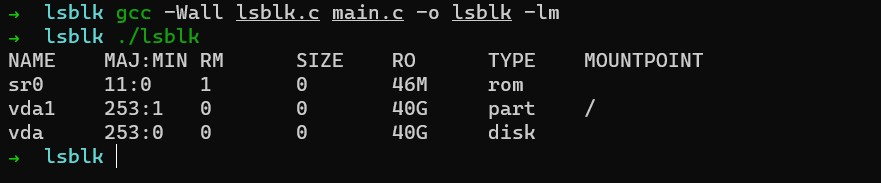
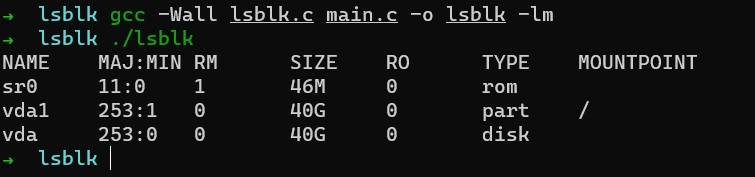
Site updated: 2022-02-22 01:34:53

diff --git a/2022/02/19/lsblk命令实现/index.html b/2022/02/19/lsblk命令实现/index.html
@@ -110,7 +110,7 @@
 <meta property="og:locale">
 <meta property="og:image" content="http://example.com/2022/02/19/lsblk%E5%91%BD%E4%BB%A4%E5%AE%9E%E7%8E%B0/lsblk.jpg">
 <meta property="article:published_time" content="2022-02-19T08:36:03.000Z">
-<meta property="article:modified_time" content="2022-02-21T16:27:54.000Z">
+<meta property="article:modified_time" content="2022-02-21T17:34:34.000Z">
 <meta property="article:author" content="Kawaii Zack">
 <meta property="article:tag" content="ln命令">
 <meta name="twitter:card" content="summary">
@@ -416,7 +416,7 @@
 
 <figure class="highlight c"><table><tr><td class="gutter"><pre><span class="line">1</span><br><span class="line">2</span><br><span class="line">3</span><br><span class="line">4</span><br><span class="line">5</span><br><span class="line">6</span><br><span class="line">7</span><br><span class="line">8</span><br><span class="line">9</span><br><span class="line">10</span><br><span class="line">11</span><br><span class="line">12</span><br><span class="line">13</span><br><span class="line">14</span><br><span class="line">15</span><br><span class="line">16</span><br><span class="line">17</span><br><span class="line">18</span><br><span class="line">19</span><br><span class="line">20</span><br><span class="line">21</span><br><span class="line">22</span><br><span class="line">23</span><br><span class="line">24</span><br><span class="line">25</span><br><span class="line">26</span><br><span class="line">27</span><br><span class="line">28</span><br><span class="line">29</span><br><span class="line">30</span><br><span class="line">31</span><br><span class="line">32</span><br><span class="line">33</span><br><span class="line">34</span><br><span class="line">35</span><br><span class="line">36</span><br><span class="line">37</span><br><span class="line">38</span><br><span class="line">39</span><br><span class="line">40</span><br><span class="line">41</span><br><span class="line">42</span><br><span class="line">43</span><br><span class="line">44</span><br><span class="line">45</span><br><span class="line">46</span><br><span class="line">47</span><br><span class="line">48</span><br><span class="line">49</span><br><span class="line">50</span><br><span class="line">51</span><br><span class="line">52</span><br><span class="line">53</span><br><span class="line">54</span><br><span class="line">55</span><br><span class="line">56</span><br><span class="line">57</span><br><span class="line">58</span><br><span class="line">59</span><br><span class="line">60</span><br><span class="line">61</span><br><span class="line">62</span><br><span class="line">63</span><br><span class="line">64</span><br><span class="line">65</span><br><span class="line">66</span><br><span class="line">67</span><br><span class="line">68</span><br><span class="line">69</span><br><span class="line">70</span><br><span class="line">71</span><br><span class="line">72</span><br><span class="line">73</span><br><span class="line">74</span><br><span class="line">75</span><br><span class="line">76</span><br><span class="line">77</span><br><span class="line">78</span><br><span class="line">79</span><br><span class="line">80</span><br><span class="line">81</span><br><span class="line">82</span><br><span class="line">83</span><br><span class="line">84</span><br><span class="line">85</span><br><span class="line">86</span><br><span class="line">87</span><br><span class="line">88</span><br><span class="line">89</span><br><span class="line">90</span><br><span class="line">91</span><br><span class="line">92</span><br><span class="line">93</span><br><span class="line">94</span><br><span class="line">95</span><br><span class="line">96</span><br><span class="line">97</span><br><span class="line">98</span><br><span class="line">99</span><br><span class="line">100</span><br><span class="line">101</span><br><span class="line">102</span><br><span class="line">103</span><br><span class="line">104</span><br><span class="line">105</span><br><span class="line">106</span><br><span class="line">107</span><br><span class="line">108</span><br><span class="line">109</span><br><span class="line">110</span><br><span class="line">111</span><br><span class="line">112</span><br><span class="line">113</span><br><span class="line">114</span><br><span class="line">115</span><br><span class="line">116</span><br><span class="line">117</span><br><span class="line">118</span><br><span class="line">119</span><br><span class="line">120</span><br><span class="line">121</span><br><span class="line">122</span><br><span class="line">123</span><br><span class="line">124</span><br><span class="line">125</span><br><span class="line">126</span><br><span class="line">127</span><br><span class="line">128</span><br><span class="line">129</span><br><span class="line">130</span><br><span class="line">131</span><br><span class="line">132</span><br><span class="line">133</span><br><span class="line">134</span><br><span class="line">135</span><br><span class="line">136</span><br><span class="line">137</span><br><span class="line">138</span><br><span class="line">139</span><br><span class="line">140</span><br><span class="line">141</span><br><span class="line">142</span><br><span class="line">143</span><br><span class="line">144</span><br><span class="line">145</span><br><span class="line">146</span><br><span class="line">147</span><br><span class="line">148</span><br><span class="line">149</span><br><span class="line">150</span><br><span class="line">151</span><br><span class="line">152</span><br><span class="line">153</span><br><span class="line">154</span><br><span class="line">155</span><br><span class="line">156</span><br><span class="line">157</span><br><span class="line">158</span><br><span class="line">159</span><br><span class="line">160</span><br><span class="line">161</span><br><span class="line">162</span><br><span class="line">163</span><br></pre></td><td class="code"><pre><span class="line"><span class="comment">//lsblk.c</span></span><br><span class="line"><span class="meta">#<span class="meta-keyword">include</span> <span class="meta-string">&quot;lsblk.h&quot;</span></span></span><br><span class="line"></span><br><span class="line"><span class="function"><span class="keyword">int</span></span></span><br><span class="line"><span class="function"><span class="title">get_block_base_info</span><span class="params">(struct block blks[])</span></span>&#123;</span><br><span class="line">    DIR *dir = <span class="literal">NULL</span>;</span><br><span class="line">    <span class="class"><span class="keyword">struct</span> <span class="title">dirent</span> *<span class="title">entry</span> =</span> <span class="literal">NULL</span>;</span><br><span class="line">    <span class="class"><span class="keyword">struct</span> <span class="title">stat</span> <span class="title">state</span>;</span></span><br><span class="line">    <span class="keyword">char</span>* path = <span class="string">&quot;/dev/&quot;</span>;</span><br><span class="line">    <span class="keyword">int</span> i = <span class="number">0</span>;</span><br><span class="line"></span><br><span class="line">    <span class="keyword">if</span> ((dir = opendir(path)) == <span class="literal">NULL</span>)&#123;</span><br><span class="line">        <span class="built_in">fprintf</span>(<span class="built_in">stderr</span>, <span class="string">&quot;open /dev/ dir error&quot;</span>);</span><br><span class="line">        perror(<span class="string">&quot;/dev/&quot;</span>);</span><br><span class="line">        <span class="keyword">return</span> <span class="number">-1</span>;</span><br><span class="line">    &#125;</span><br><span class="line"></span><br><span class="line">    <span class="keyword">while</span> ((entry = readdir(dir)) != <span class="literal">NULL</span>) &#123;</span><br><span class="line">        <span class="keyword">char</span> dev[BUFFER_SIZE];</span><br><span class="line"></span><br><span class="line">        <span class="keyword">int</span> ret = <span class="built_in">snprintf</span>(dev, <span class="keyword">sizeof</span>(dev), <span class="string">&quot;%s/%s&quot;</span>, path, entry-&gt;d_name);</span><br><span class="line">        <span class="keyword">if</span> (ret == <span class="number">-1</span>) &#123;</span><br><span class="line">            <span class="built_in">fprintf</span>(<span class="built_in">stderr</span>, <span class="string">&quot;join new path error\n&quot;</span>);</span><br><span class="line">            <span class="keyword">return</span> <span class="number">-1</span>;</span><br><span class="line">        &#125;</span><br><span class="line"></span><br><span class="line">        <span class="keyword">if</span> (entry-&gt;d_type == DT_BLK) &#123;</span><br><span class="line">            <span class="keyword">if</span> ((ret = lstat(dev, &amp;state)) == <span class="number">-1</span>) &#123;</span><br><span class="line">               <span class="built_in">fprintf</span>(<span class="built_in">stderr</span>,<span class="string">&quot;get file info error\n&quot;</span>);</span><br><span class="line">               perror(dev);</span><br><span class="line">               <span class="keyword">return</span> <span class="number">-1</span>;</span><br><span class="line">            &#125;</span><br><span class="line"></span><br><span class="line">            <span class="class"><span class="keyword">struct</span> <span class="title">block</span> <span class="title">b</span> =</span> &#123;</span><br><span class="line">                name: entry-&gt;d_name,</span><br><span class="line">                maj: (<span class="keyword">int</span>)MAJOR(state.st_rdev),</span><br><span class="line">                min: (<span class="keyword">int</span>)MINOR(state.st_rdev)</span><br><span class="line">            &#125;;</span><br><span class="line">            blks[i] = b;</span><br><span class="line">            i++;</span><br><span class="line">        &#125;</span><br><span class="line">    &#125;</span><br><span class="line">    closedir(dir);</span><br><span class="line"></span><br><span class="line">    <span class="keyword">return</span> i;</span><br><span class="line">&#125;</span><br><span class="line"></span><br><span class="line"><span class="function"><span class="keyword">char</span>* <span class="title">get_context</span><span class="params">(<span class="keyword">char</span>* cmd)</span></span>&#123;</span><br><span class="line">    FILE* file;</span><br><span class="line">    <span class="keyword">char</span>* buf;</span><br><span class="line">    buf = (<span class="keyword">char</span> *)<span class="built_in">malloc</span>(BUFFER_SIZE * <span class="keyword">sizeof</span>(<span class="keyword">char</span>));</span><br><span class="line">    <span class="comment">//printf(&quot;len: %ld\n&quot;, sizeof(buf));</span></span><br><span class="line"></span><br><span class="line">    file = popen(cmd, <span class="string">&quot;r&quot;</span>);</span><br><span class="line">    <span class="built_in">fscanf</span>(file, <span class="string">&quot;%s&quot;</span>, buf);</span><br><span class="line">    pclose(file);</span><br><span class="line"></span><br><span class="line">    <span class="keyword">return</span> buf;</span><br><span class="line">&#125;</span><br><span class="line"></span><br><span class="line"><span class="function"><span class="keyword">int</span></span></span><br><span class="line"><span class="function"><span class="title">get_bolck_removable</span><span class="params">(<span class="keyword">char</span>* device)</span></span>&#123;</span><br><span class="line">    <span class="keyword">char</span> cmd[BUFFER_SIZE];</span><br><span class="line">    <span class="keyword">char</span> file_path[BUFFER_SIZE];</span><br><span class="line">    <span class="keyword">char</span>* res;</span><br><span class="line"></span><br><span class="line">    <span class="built_in">sprintf</span>((<span class="keyword">char</span>*)file_path, <span class="string">&quot;/sys/dev/block/%s/removable&quot;</span>, device);</span><br><span class="line">    <span class="keyword">int</span> ret = <span class="built_in">snprintf</span>(cmd, <span class="keyword">sizeof</span>(cmd), <span class="string">&quot;cat /sys/dev/block/%s/removable&quot;</span>, device);</span><br><span class="line">    <span class="keyword">if</span> (access(file_path, F_OK)) &#123;</span><br><span class="line">        <span class="keyword">return</span> <span class="number">0</span>;</span><br><span class="line">    &#125;</span><br><span class="line">    <span class="keyword">if</span> (ret == <span class="number">-1</span>) &#123;</span><br><span class="line">        <span class="built_in">fprintf</span>(<span class="built_in">stderr</span>, <span class="string">&quot;join new path error\n&quot;</span>);</span><br><span class="line">        <span class="keyword">return</span> ret;</span><br><span class="line">    &#125;</span><br><span class="line"></span><br><span class="line">    res = get_context(cmd);</span><br><span class="line">    <span class="keyword">return</span> res[<span class="number">0</span>] - <span class="string">&#x27;0&#x27;</span>;</span><br><span class="line">&#125;</span><br><span class="line"></span><br><span class="line"><span class="function"><span class="keyword">void</span></span></span><br><span class="line"><span class="function"><span class="title">get_block_format_size</span><span class="params">(<span class="keyword">char</span>* device,<span class="keyword">char</span>* ret)</span></span>&#123;</span><br><span class="line">    <span class="keyword">int</span> fd;</span><br><span class="line">    <span class="keyword">off_t</span> off;</span><br><span class="line">    <span class="keyword">char</span> fmt_size[BUFFER_SIZE];</span><br><span class="line"></span><br><span class="line">    fd=open(device, O_RDONLY);</span><br><span class="line"></span><br><span class="line">    <span class="keyword">if</span> (fd == <span class="number">-1</span>)&#123;</span><br><span class="line">        <span class="built_in">fprintf</span>(<span class="built_in">stderr</span>, <span class="string">&quot;open file error\n&quot;</span>);</span><br><span class="line">        ret = <span class="string">&quot;error&quot;</span>;</span><br><span class="line">        <span class="keyword">return</span> ;</span><br><span class="line">    &#125;</span><br><span class="line"></span><br><span class="line">    off = lseek(fd, <span class="number">0</span>, SEEK_END);</span><br><span class="line"></span><br><span class="line">    <span class="keyword">if</span> (off &lt; <span class="number">1024</span>*<span class="number">1024</span>*<span class="number">1024</span>)&#123;</span><br><span class="line">       <span class="built_in">sprintf</span>(fmt_size, <span class="string">&quot;%dM&quot;</span>, (<span class="keyword">int</span>)(off*<span class="number">1.0</span>/<span class="number">1024</span>/<span class="number">1024</span>+<span class="number">0.5</span>));</span><br><span class="line">    &#125;<span class="keyword">else</span> &#123;</span><br><span class="line">       <span class="built_in">sprintf</span>(fmt_size, <span class="string">&quot;%dG&quot;</span>, (<span class="keyword">int</span>)(off*<span class="number">1.0</span>/<span class="number">1024</span>/<span class="number">1024</span>/<span class="number">1024</span>+<span class="number">0.5</span>));</span><br><span class="line">    &#125;</span><br><span class="line">    <span class="built_in">strcpy</span>(ret, fmt_size);</span><br><span class="line"></span><br><span class="line">    <span class="comment">//printf(&quot;size:%s\n&quot;, ret);</span></span><br><span class="line">    <span class="keyword">return</span> ;</span><br><span class="line">&#125;</span><br><span class="line"></span><br><span class="line"><span class="function"><span class="keyword">int</span></span></span><br><span class="line"><span class="function"><span class="title">get_bolck_ro_value</span><span class="params">(<span class="keyword">char</span>* device)</span></span>&#123;</span><br><span class="line">    <span class="keyword">char</span> cmd[BUFFER_SIZE];</span><br><span class="line">    <span class="keyword">char</span>* res;</span><br><span class="line"></span><br><span class="line">    <span class="keyword">int</span> ret = <span class="built_in">snprintf</span>(cmd, <span class="keyword">sizeof</span>(cmd), <span class="string">&quot;cat /sys/dev/block/%s/ro&quot;</span>, device);</span><br><span class="line">    <span class="keyword">if</span> (ret == <span class="number">-1</span>) &#123;</span><br><span class="line">        <span class="built_in">fprintf</span>(<span class="built_in">stderr</span>, <span class="string">&quot;join new path error\n&quot;</span>);</span><br><span class="line">        <span class="keyword">return</span> ret;</span><br><span class="line">    &#125;</span><br><span class="line"></span><br><span class="line">    res = get_context(cmd);</span><br><span class="line"></span><br><span class="line">    <span class="keyword">return</span> res[<span class="number">0</span>] - <span class="string">&#x27;0&#x27;</span>;</span><br><span class="line">&#125;</span><br><span class="line"></span><br><span class="line"><span class="function"><span class="keyword">char</span>*</span></span><br><span class="line"><span class="function"><span class="title">get_block_type</span><span class="params">(<span class="keyword">int</span> rm, <span class="keyword">char</span>* device)</span></span>&#123;</span><br><span class="line">    <span class="keyword">char</span> cmd[BUFFER_SIZE];</span><br><span class="line">    <span class="keyword">char</span>* res;</span><br><span class="line"></span><br><span class="line">    <span class="keyword">int</span> ret = <span class="built_in">snprintf</span>(cmd, <span class="keyword">sizeof</span>(cmd), <span class="string">&quot;cat /sys/dev/block/%s/uevent | grep DEVTYPE | awk -F&#x27;=&#x27; &#x27;&#123;print$2&#125;&#x27; | awk &#x27;&#123;print$1&#125;&#x27;&quot;</span>, device);</span><br><span class="line">    <span class="keyword">if</span> (ret == <span class="number">-1</span>) &#123;</span><br><span class="line">        <span class="built_in">fprintf</span>(<span class="built_in">stderr</span>, <span class="string">&quot;join new path error\n&quot;</span>);</span><br><span class="line">        <span class="keyword">return</span> <span class="string">&quot;error&quot;</span>;</span><br><span class="line">    &#125;</span><br><span class="line"></span><br><span class="line">    res = get_context(cmd);</span><br><span class="line">    <span class="keyword">if</span> (rm == <span class="number">1</span>)&#123;</span><br><span class="line">        res = <span class="string">&quot;rom&quot;</span>;</span><br><span class="line">    &#125;</span><br><span class="line"></span><br><span class="line">    <span class="keyword">if</span> (<span class="built_in">strcmp</span>(res, <span class="string">&quot;partition&quot;</span>) == <span class="number">0</span>)&#123;</span><br><span class="line">        res = <span class="string">&quot;part&quot;</span>;</span><br><span class="line">    &#125;</span><br><span class="line"></span><br><span class="line">    <span class="comment">//printf(&quot;type:%s|&quot;, res);</span></span><br><span class="line">    <span class="keyword">return</span> res;</span><br><span class="line">&#125;</span><br><span class="line"></span><br><span class="line"><span class="function"><span class="keyword">char</span>*</span></span><br><span class="line"><span class="function"><span class="title">get_block_mount_point</span><span class="params">(<span class="keyword">char</span>* dev)</span></span>&#123;</span><br><span class="line">    <span class="keyword">char</span> cmd[BUFFER_SIZE];</span><br><span class="line">    <span class="keyword">char</span>* res;</span><br><span class="line"></span><br><span class="line">    <span class="keyword">int</span> ret = <span class="built_in">snprintf</span>(cmd, <span class="keyword">sizeof</span>(cmd), <span class="string">&quot;cat /etc/mtab | grep &#x27;%s&#x27; | awk &#x27;&#123;print$2&#125;&#x27;&quot;</span>, dev);</span><br><span class="line">    <span class="keyword">if</span> (ret == <span class="number">-1</span>) &#123;</span><br><span class="line">        <span class="built_in">fprintf</span>(<span class="built_in">stderr</span>, <span class="string">&quot;join new path error\n&quot;</span>);</span><br><span class="line">        <span class="keyword">return</span> <span class="string">&quot;error&quot;</span>;</span><br><span class="line">    &#125;</span><br><span class="line"></span><br><span class="line">    res = get_context(cmd);</span><br><span class="line"></span><br><span class="line">    <span class="comment">//printf(&quot;point:%s\n&quot;, res);</span></span><br><span class="line">    <span class="keyword">return</span> res;</span><br><span class="line">&#125;</span><br></pre></td></tr></table></figure>
 
-<figure class="highlight c"><table><tr><td class="gutter"><pre><span class="line">1</span><br><span class="line">2</span><br><span class="line">3</span><br><span class="line">4</span><br><span class="line">5</span><br><span class="line">6</span><br><span class="line">7</span><br><span class="line">8</span><br><span class="line">9</span><br><span class="line">10</span><br><span class="line">11</span><br><span class="line">12</span><br><span class="line">13</span><br><span class="line">14</span><br><span class="line">15</span><br><span class="line">16</span><br><span class="line">17</span><br><span class="line">18</span><br><span class="line">19</span><br><span class="line">20</span><br><span class="line">21</span><br><span class="line">22</span><br><span class="line">23</span><br><span class="line">24</span><br><span class="line">25</span><br><span class="line">26</span><br><span class="line">27</span><br><span class="line">28</span><br><span class="line">29</span><br><span class="line">30</span><br><span class="line">31</span><br><span class="line">32</span><br><span class="line">33</span><br></pre></td><td class="code"><pre><span class="line"><span class="comment">//main.</span></span><br><span class="line"><span class="meta">#<span class="meta-keyword">include</span> <span class="meta-string">&lt;stdio.h&gt;</span></span></span><br><span class="line"><span class="meta">#<span class="meta-keyword">include</span> <span class="meta-string">&quot;lsblk.h&quot;</span></span></span><br><span class="line"></span><br><span class="line"><span class="function"><span class="keyword">int</span></span></span><br><span class="line"><span class="function"><span class="title">main</span><span class="params">(<span class="keyword">int</span> argc, <span class="keyword">char</span>* argv[])</span></span>&#123;</span><br><span class="line">    <span class="class"><span class="keyword">struct</span> <span class="title">block</span> <span class="title">blks</span>[10];</span></span><br><span class="line">    <span class="keyword">int</span> n,i;</span><br><span class="line">    <span class="keyword">char</span> maj_min[BUFFER_SIZE];</span><br><span class="line">    <span class="keyword">char</span> dev[BUFFER_SIZE];</span><br><span class="line"></span><br><span class="line">    n = get_block_base_info(blks);</span><br><span class="line"></span><br><span class="line">    <span class="built_in">printf</span>(<span class="string">&quot;NAME\tMAJ:MIN\tRM\tSIZE\tRO\tTYPE\tMOUNTPOINT\n&quot;</span>);</span><br><span class="line"></span><br><span class="line">    <span class="keyword">for</span>(i = <span class="number">0</span>; i &lt; n; i++)&#123;</span><br><span class="line">        <span class="keyword">char</span>* size = <span class="built_in">malloc</span>(BUFFER_SIZE);</span><br><span class="line">        <span class="built_in">sprintf</span>((<span class="keyword">char</span>*)maj_min, <span class="string">&quot;%d:%d&quot;</span>, blks[i].maj, blks[i].min);</span><br><span class="line">        <span class="built_in">sprintf</span>((<span class="keyword">char</span>*)dev, <span class="string">&quot;/dev/%s&quot;</span>, blks[i].name);</span><br><span class="line">        blks[i].ro = get_bolck_ro_value(maj_min);</span><br><span class="line">        blks[i].rm = get_bolck_removable(maj_min);</span><br><span class="line">        get_block_format_size(dev, size);</span><br><span class="line">        blks[i].fmt_size = size;</span><br><span class="line">        blks[i].type = get_block_type(blks[i].rm, maj_min);</span><br><span class="line">        blks[i].mount_point = <span class="string">&quot;&quot;</span>;</span><br><span class="line">        <span class="keyword">if</span> (<span class="built_in">strcmp</span>(blks[i].type, <span class="string">&quot;part&quot;</span>) == <span class="number">0</span>)&#123;</span><br><span class="line">            blks[i].mount_point = get_block_mount_point(blks[i].name);</span><br><span class="line">        &#125;</span><br><span class="line">        <span class="built_in">printf</span>(<span class="string">&quot;%s\t%s\t%d\t%d\t%s\t%s\t%s\n&quot;</span>, blks[i].name, maj_min, blks[i].rm, blks[i].ro, blks[i].fmt_size, blks[i].type, blks[i].mount_point);</span><br><span class="line">    &#125;</span><br><span class="line"></span><br><span class="line">    <span class="keyword">return</span> <span class="number">0</span>;</span><br><span class="line">&#125;</span><br></pre></td></tr></table></figure>
+<figure class="highlight c"><table><tr><td class="gutter"><pre><span class="line">1</span><br><span class="line">2</span><br><span class="line">3</span><br><span class="line">4</span><br><span class="line">5</span><br><span class="line">6</span><br><span class="line">7</span><br><span class="line">8</span><br><span class="line">9</span><br><span class="line">10</span><br><span class="line">11</span><br><span class="line">12</span><br><span class="line">13</span><br><span class="line">14</span><br><span class="line">15</span><br><span class="line">16</span><br><span class="line">17</span><br><span class="line">18</span><br><span class="line">19</span><br><span class="line">20</span><br><span class="line">21</span><br><span class="line">22</span><br><span class="line">23</span><br><span class="line">24</span><br><span class="line">25</span><br><span class="line">26</span><br><span class="line">27</span><br><span class="line">28</span><br><span class="line">29</span><br><span class="line">30</span><br><span class="line">31</span><br><span class="line">32</span><br><span class="line">33</span><br></pre></td><td class="code"><pre><span class="line"><span class="comment">//main.</span></span><br><span class="line"><span class="meta">#<span class="meta-keyword">include</span> <span class="meta-string">&lt;stdio.h&gt;</span></span></span><br><span class="line"><span class="meta">#<span class="meta-keyword">include</span> <span class="meta-string">&quot;lsblk.h&quot;</span></span></span><br><span class="line"></span><br><span class="line"><span class="function"><span class="keyword">int</span></span></span><br><span class="line"><span class="function"><span class="title">main</span><span class="params">(<span class="keyword">int</span> argc, <span class="keyword">char</span>* argv[])</span></span>&#123;</span><br><span class="line">    <span class="class"><span class="keyword">struct</span> <span class="title">block</span> <span class="title">blks</span>[10];</span></span><br><span class="line">    <span class="keyword">int</span> n,i;</span><br><span class="line">    <span class="keyword">char</span> maj_min[BUFFER_SIZE];</span><br><span class="line">    <span class="keyword">char</span> dev[BUFFER_SIZE];</span><br><span class="line"></span><br><span class="line">    n = get_block_base_info(blks);</span><br><span class="line"></span><br><span class="line">    <span class="built_in">printf</span>(<span class="string">&quot;NAME\tMAJ:MIN\tRM\tSIZE\tRO\tTYPE\tMOUNTPOINT\n&quot;</span>);</span><br><span class="line"></span><br><span class="line">    <span class="keyword">for</span>(i = <span class="number">0</span>; i &lt; n; i++)&#123;</span><br><span class="line">        <span class="keyword">char</span>* size = <span class="built_in">malloc</span>(BUFFER_SIZE);</span><br><span class="line">        <span class="built_in">sprintf</span>((<span class="keyword">char</span>*)maj_min, <span class="string">&quot;%d:%d&quot;</span>, blks[i].maj, blks[i].min);</span><br><span class="line">        <span class="built_in">sprintf</span>((<span class="keyword">char</span>*)dev, <span class="string">&quot;/dev/%s&quot;</span>, blks[i].name);</span><br><span class="line">        blks[i].ro = get_bolck_ro_value(maj_min);</span><br><span class="line">        blks[i].rm = get_bolck_removable(maj_min);</span><br><span class="line">        get_block_format_size(dev, size);</span><br><span class="line">        blks[i].fmt_size = size;</span><br><span class="line">        blks[i].type = get_block_type(blks[i].rm, maj_min);</span><br><span class="line">        blks[i].mount_point = <span class="string">&quot;&quot;</span>;</span><br><span class="line">        <span class="keyword">if</span> (<span class="built_in">strcmp</span>(blks[i].type, <span class="string">&quot;part&quot;</span>) == <span class="number">0</span>)&#123;</span><br><span class="line">            blks[i].mount_point = get_block_mount_point(blks[i].name);</span><br><span class="line">        &#125;</span><br><span class="line">        <span class="built_in">printf</span>(<span class="string">&quot;%s\t%s\t%d\t%s\t%d\t%s\t%s\n&quot;</span>, blks[i].name, maj_min, blks[i].rm, blks[i].fmt_size, blks[i].ro, blks[i].type, blks[i].mount_point);</span><br><span class="line">    &#125;</span><br><span class="line"></span><br><span class="line">    <span class="keyword">return</span> <span class="number">0</span>;</span><br><span class="line">&#125;</span><br></pre></td></tr></table></figure>
 
 <h3 id="执行编译"><a href="#执行编译" class="headerlink" title="执行编译"></a>执行编译</h3><figure class="highlight plaintext"><table><tr><td class="gutter"><pre><span class="line">1</span><br><span class="line">2</span><br><span class="line">3</span><br><span class="line">4</span><br><span class="line">5</span><br></pre></td><td class="code"><pre><span class="line">//编译</span><br><span class="line">gcc -Wall lsblk.c main.c -o lsblk -lm</span><br><span class="line"></span><br><span class="line">//执行</span><br><span class="line">./lsblk</span><br></pre></td></tr></table></figure>
 

diff --git a/css/main.css b/css/main.css
@@ -1813,7 +1813,7 @@ pre .javascript .function {
   width: 4px;
   height: 4px;
   border-radius: 50%;
-  background: #93e9ff;
+  background: #be41b6;
 }
 .links-of-blogroll {
   font-size: 13px;
